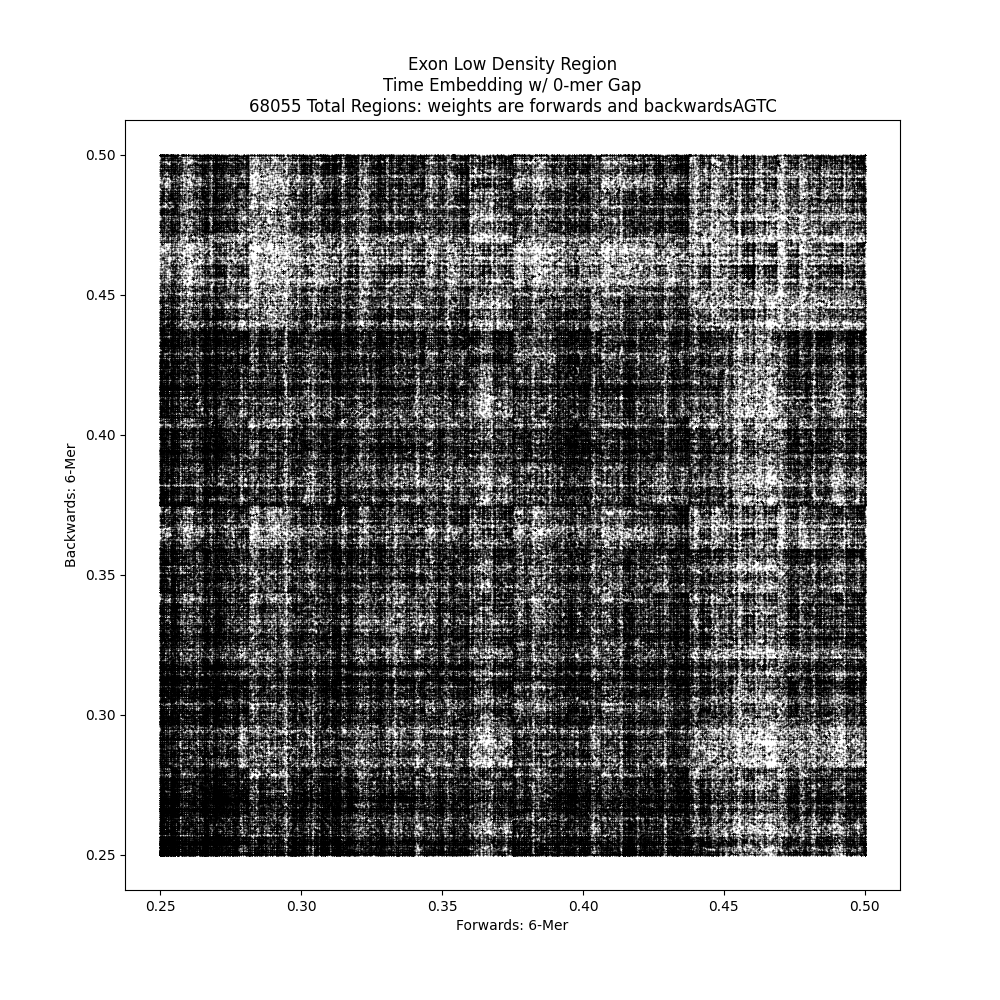
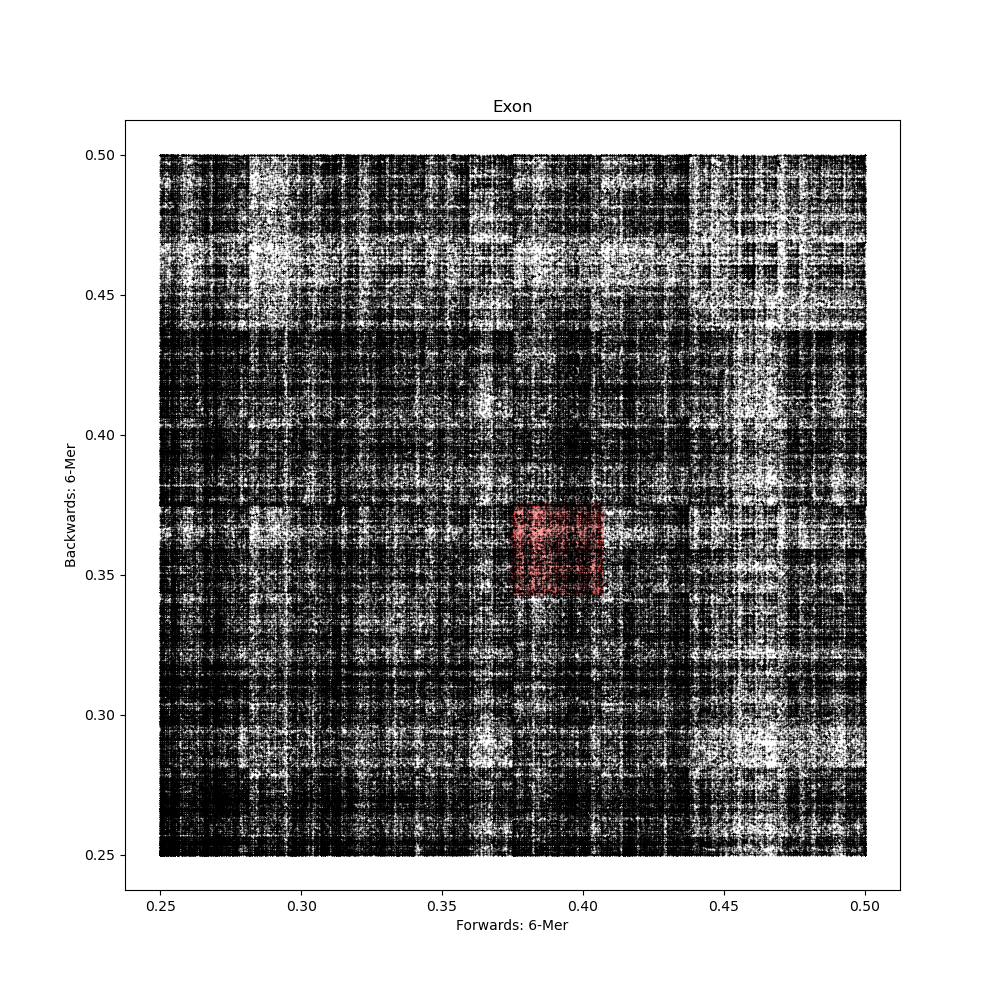
Use these for zoomed in areas

diff --git a/FractalDimension/TimeEmbedding.py b/FractalDimension/TimeEmbedding.py
@@ -40,7 +40,7 @@ def main():
     # exit()
 
     linux_path = f"/media/ethanspeakman/Elements/"
-    windows_path = f"G:/"
+    windows_path = f"F:/"
 
     data_path = windows_path
 
@@ -59,27 +59,27 @@ def main():
 
 
     # Zoomed in Picture
-    general_dict_file = "Data_zoomed_x025y050T"
+    general_dict_file = "Data_zoomed_xZoomyZoomT"
     exon_dict_file = f"Exon{general_dict_file}"
     intron_dict_file = f"Intron{general_dict_file}"
-    y_lim = [0.25, 0.5]
-    x_lim = [0.25, 0.5]
-    x_ticks = {x/100:x/100 for x in range(75, 100 + 1, 1)}
+    y_lim = [0.375, 0.375 + 0.03125]
+    x_lim = [0.375 - 0.03126, 0.375]
+    x_ticks = {x/100:x/100 for x in range(25, 50 + 1, 1)}
     y_ticks = {y/100:y/100 for y in range(25, 50 + 1, 1)}
     s = 0.1
     n = 100_000
     data_set = 1
-    exon_png_file = "ExonZoomed_x025_050_y025_050"
-    intron_png_file = "IntronZoomed_x025_050_y025_050"
-    inches = 10
+    exon_png_file = "ExonZoomed_xZoom_yZoom"
+    intron_png_file = "IntronZoomed_xZoom_yZoom"
+    inches = 5
 
-    # box_1 = [0.375, 0.75, 0.4375 - 0.375, 0.8125 - 0.75, "red", 4, True, 0.4]
+    box_1 = [0.375, 0.375 - 0.03125, 0.03125, 0.03125, "red", 4, True, 0.4]
 
     # box_2 = [0.3125, 0.9375, 0.375 - 0.3125, 1.0 - 0.9375, "blue", 4, True, 0.4]
 
     # box_3 = [0.25, 0.75, 0.0625, 0.0625, "green", 4, True, 0.4]
 
-    # bfa = [box_1, box_2, box_3]
+    # bfa = [box_1]
     bfa = None
 
     time_embedding_v2(pathlib.Path(f"{data_path}/Gene_Data_Sets/Data_Set_{data_set}_histogram.pkl"), 
@@ -91,22 +91,24 @@ def main():
     matplotfigure(cwd / "TE_Images_ForPaper" / "Dict" / f"{exon_dict_file}.pkl",
                   cwd / "TE_Images_ForPaper" / "Exon",
                   f"{exon_png_file}",
+                  default_title = False,
                 #   transpose=False,
-                #   x_lim=x_lim, y_lim=y_lim,
+                  x_lim=x_lim, y_lim=y_lim,
                 #   x_tick_marks=x_ticks, y_tick_marks=y_ticks,
                   inches = inches,
-                  title = "Exon Low Density Region",
+                  title = "Exon",
                   box_fill_arrow = bfa,
                   dot_size=s)
     
     matplotfigure(cwd / "TE_Images_ForPaper" / "Dict" / f"{intron_dict_file}.pkl",
                   cwd / "TE_Images_ForPaper" / "Intron",
                   f"{intron_png_file}",
+                  default_title = False,
                 #   transpose=False,
-                #   x_lim=x_lim, y_lim=y_lim,
+                  x_lim=x_lim, y_lim=y_lim,
                 #   x_tick_marks=x_ticks, y_tick_marks=y_ticks,
                   inches = inches,
-                  title = "Intron Low Density Region",
+                  title = "Intron",
                   box_fill_arrow = bfa,
                   dot_size=s)
 
@@ -190,6 +192,7 @@ def matplotfigure(frame: dict or pathlib.Path or str,
                   backwards: bool = True, 
                   nucsequence: str = "AGTC",
                   title: str = None,
+                  default_title: bool = True,
                   x_tick_marks: dict = None,
                   y_tick_marks: dict = None,
                   dot_size: float = 0.1,
@@ -239,20 +242,18 @@ def matplotfigure(frame: dict or pathlib.Path or str,
 
     count = list(frame.keys())[len(list(frame.keys())) - 1]
 
-    if isinstance(title, str):
-        title = f"{title}\nTime Embedding w/ {gap}-mer Gap\n{count} Total Regions"
-    else:
-        title = f"Time Embedding w/ {gap}-mer Gap\n{count} Total Regions"
+    if default_title:
+        base_title = f"Time Embedding w/ {gap}-mer Gap\n{count} Total Regions"
 
-    if backwards:
-        weights = ": weights are forwards and backwards"
-    else:
-        weights = ": weights are forwards"
+        if isinstance(title, str):
+            title = f"{title}\n{base_title}"
+        
+        if backwards:
+            weights = ": weights are forwards and backwards"
+        else:
+            weights = ": weights are forwards"
 
-
-    # b_title = f"{b_title}{weights}{NS}"
-    title = f"{title}{weights}{nucsequence}"
-
+        title = f"{title}{weights}{nucsequence}"
 
     # Plot
     fig, ax = plt.subplots()
